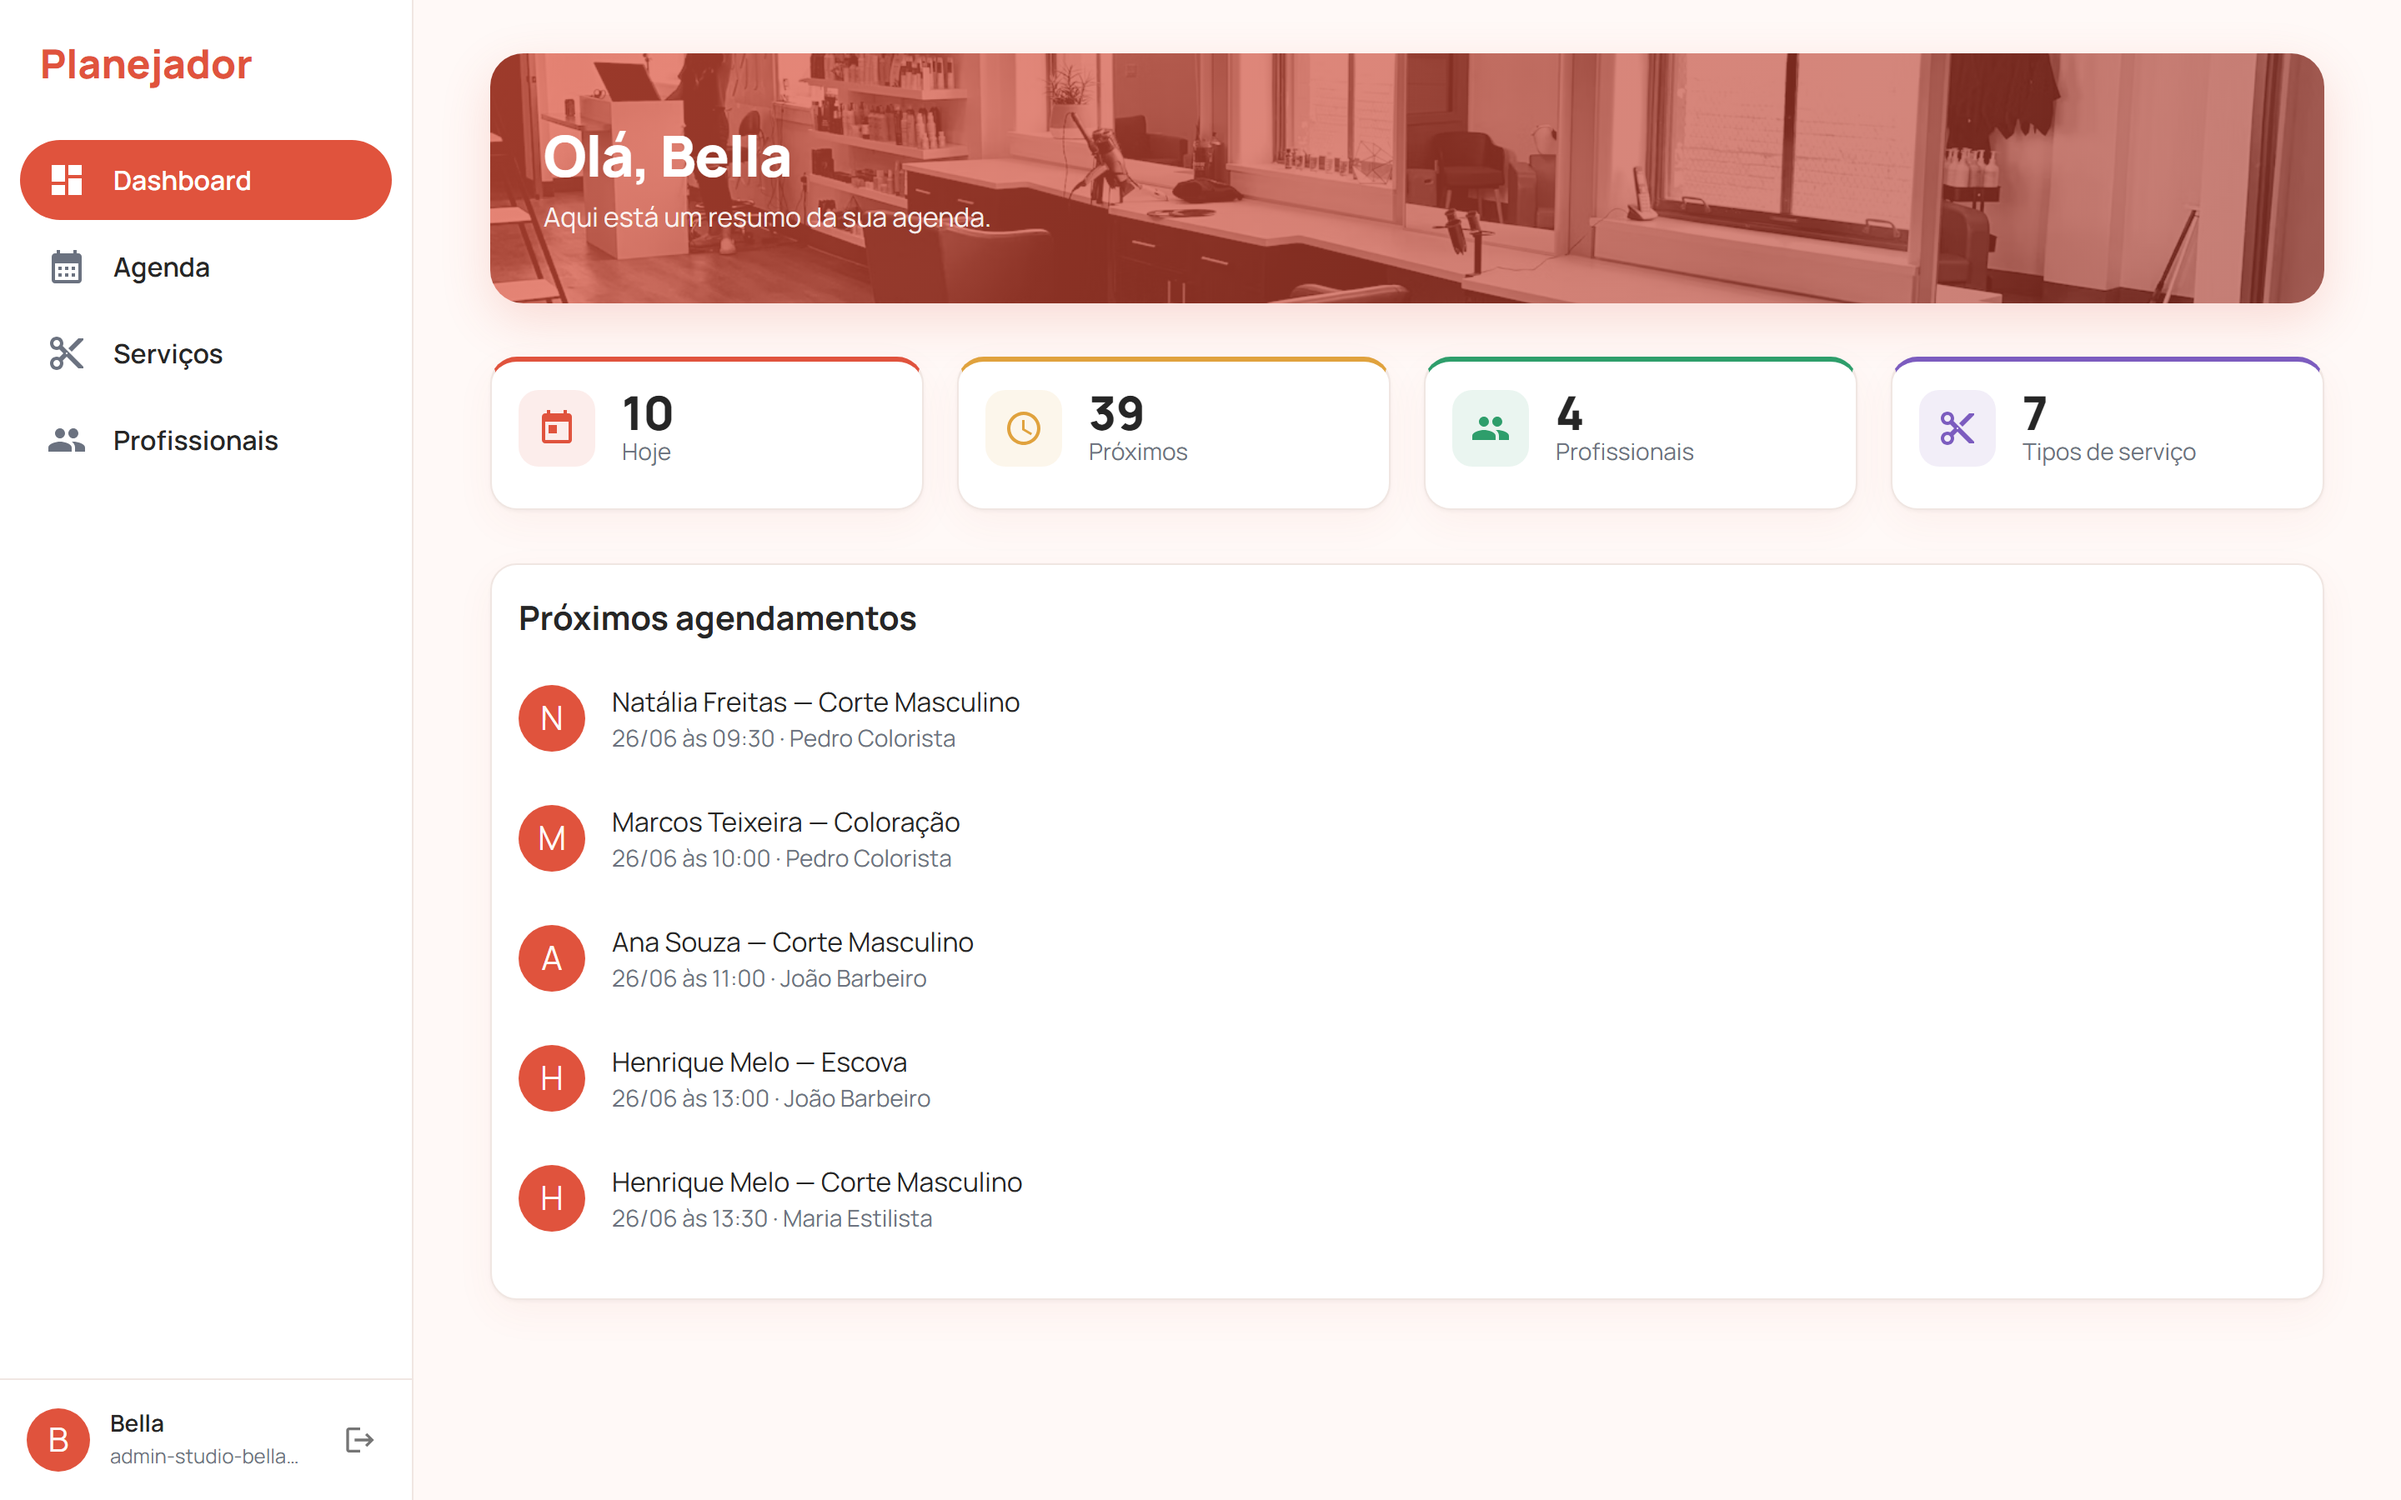
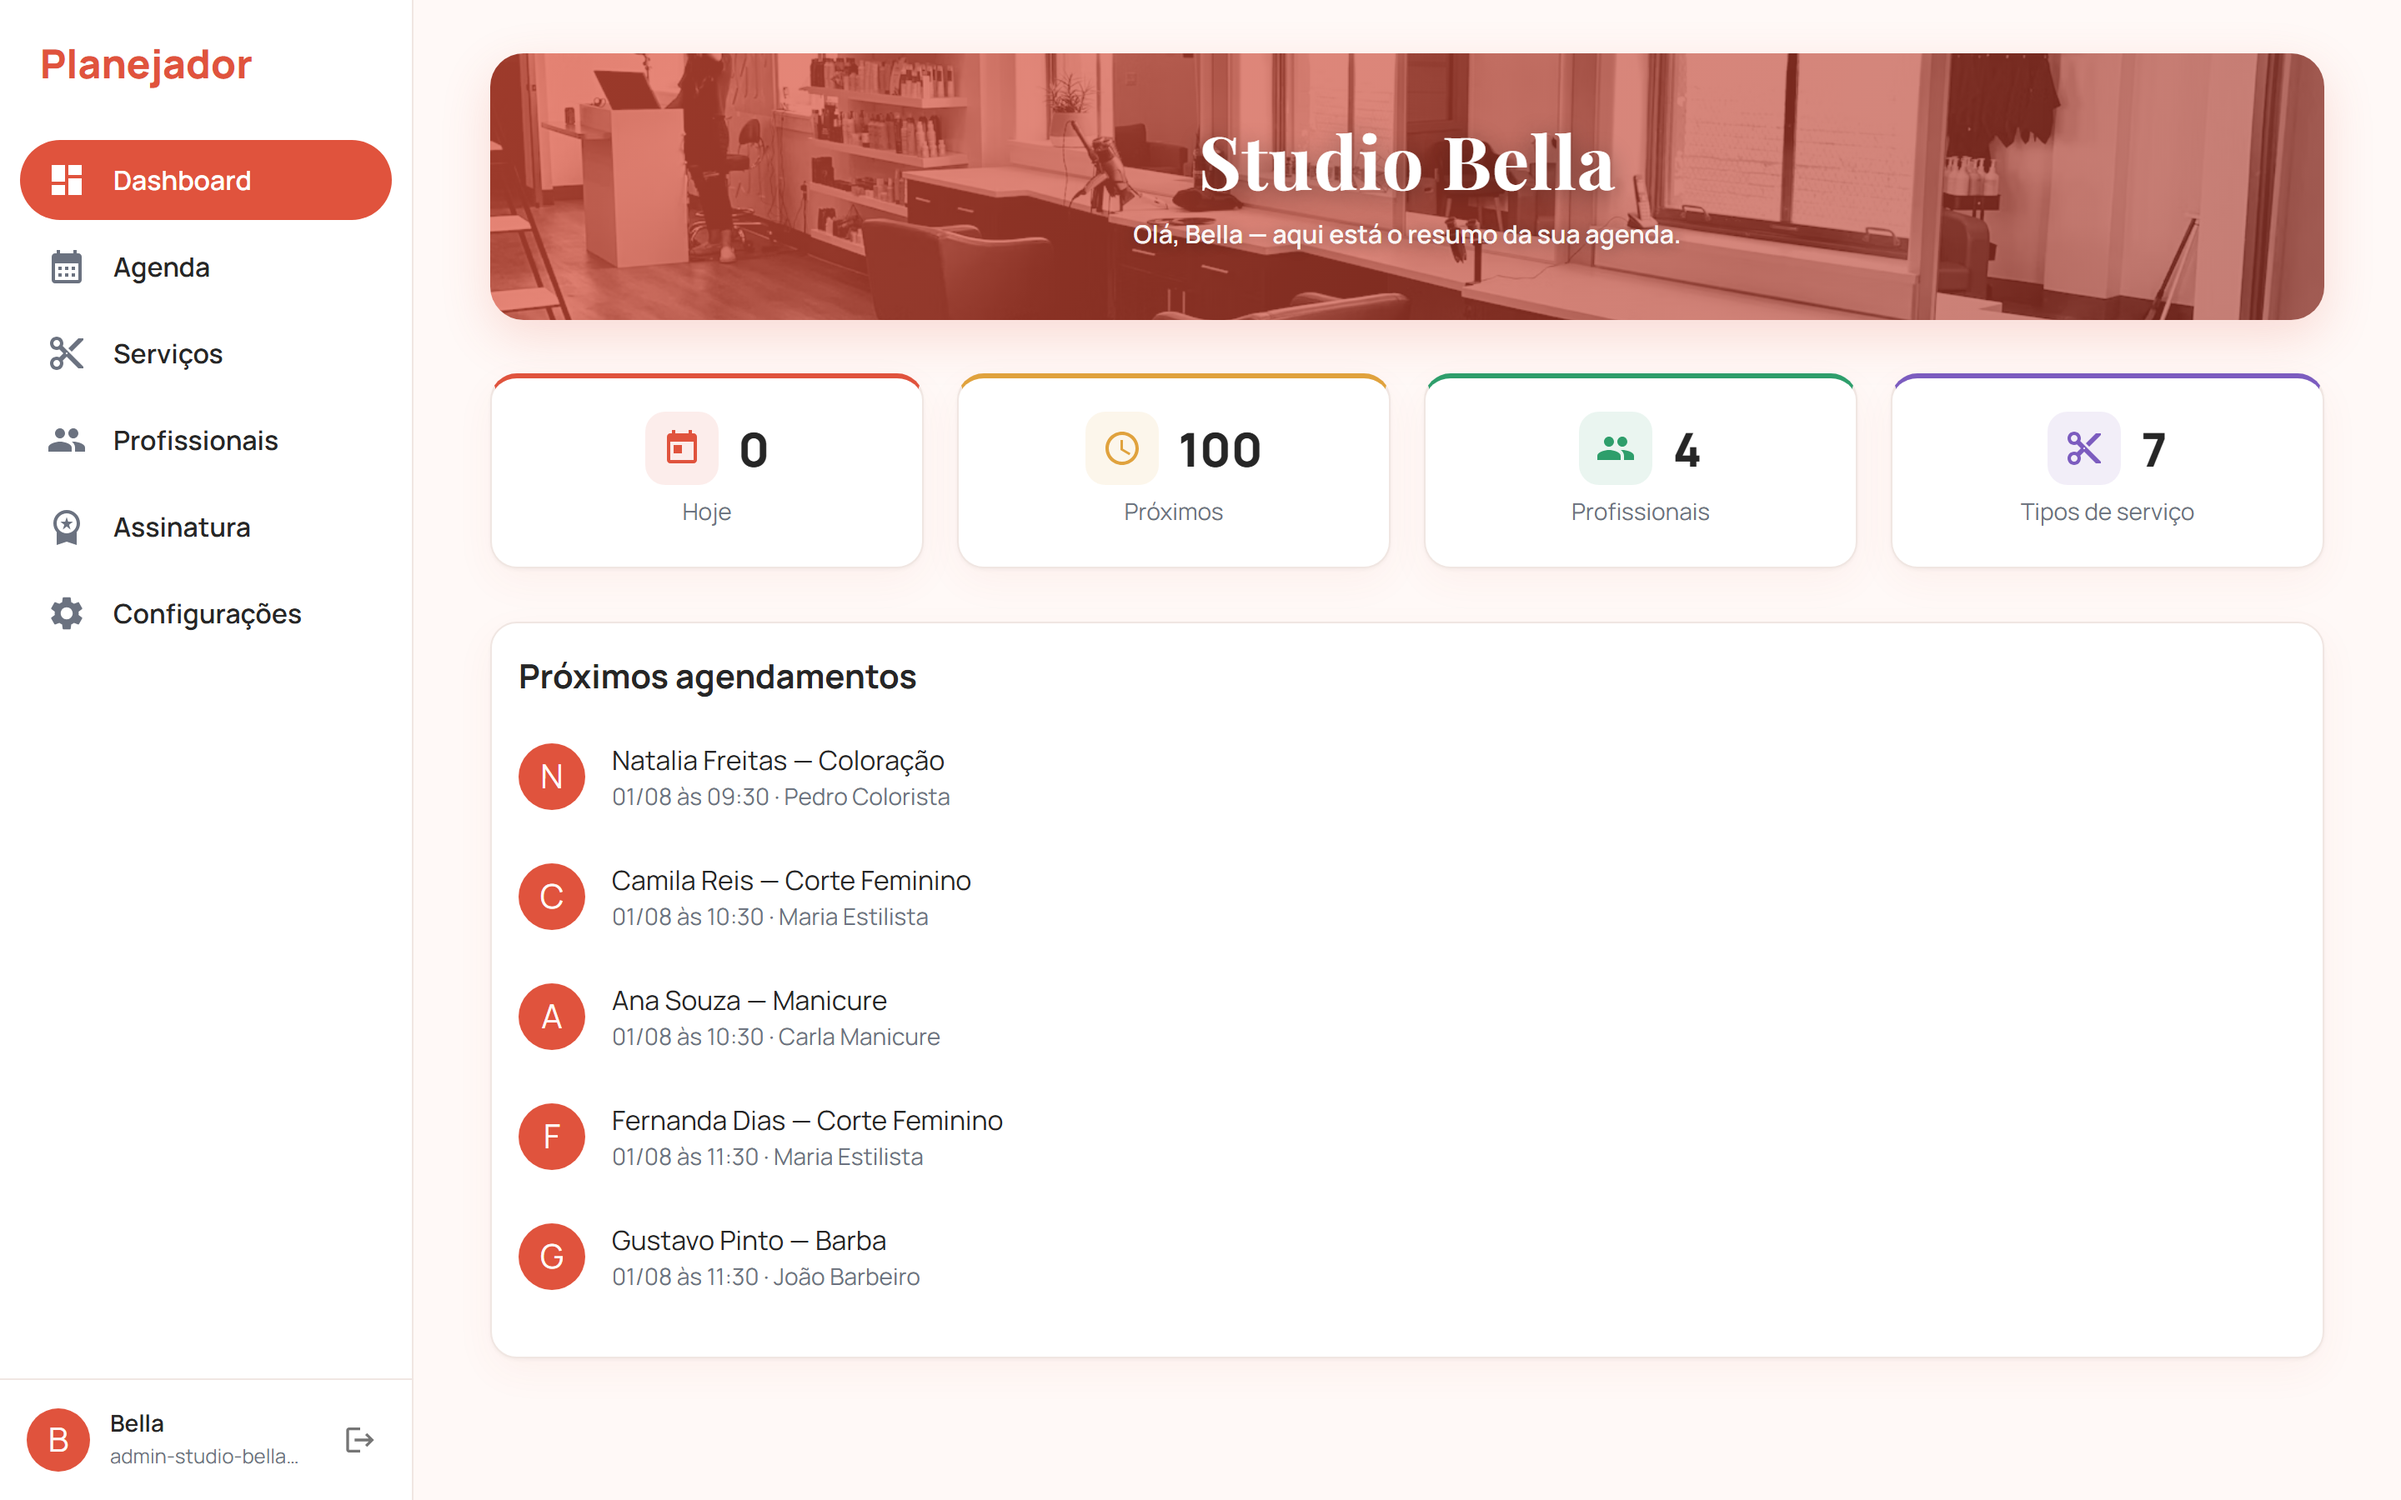
docs(prints): atualiza telas (agenda centralizada + botoes novos) e adiciona a versao no celular

diff --git a/README.md b/README.md
@@ -58,6 +58,15 @@ calendar — built to manage bookings and prevent scheduling conflicts.*
   </tr>
 </table>
 
+**📱 No celular · On mobile** — a agenda vira **lista da semana** (texto por extenso, sem estourar as bordas) e o nome do salão ganha **destaque** no topo.
+
+<table>
+  <tr>
+    <td width="50%" valign="top" align="center"><b>Agenda — lista da semana</b><br/><img src="assets/08-agenda-mobile.png" alt="Agenda no celular (lista da semana)" width="300"/></td>
+    <td width="50%" valign="top" align="center"><b>Dashboard</b><br/><img src="assets/09-dashboard-mobile.png" alt="Dashboard no celular" width="300"/></td>
+  </tr>
+</table>
+
 ---
 
 ## 🧱 Stack
